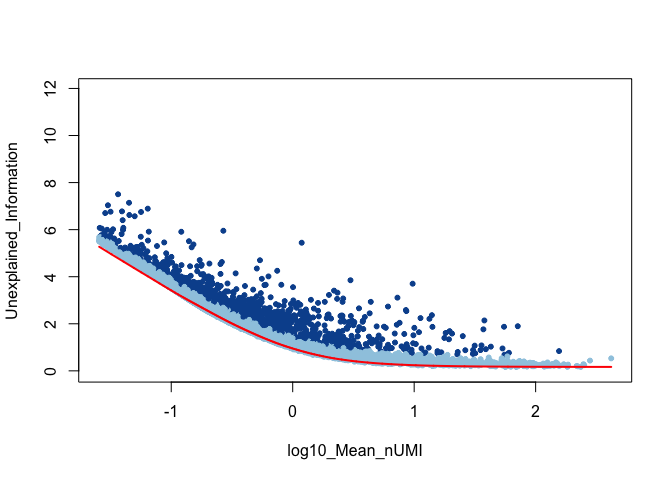
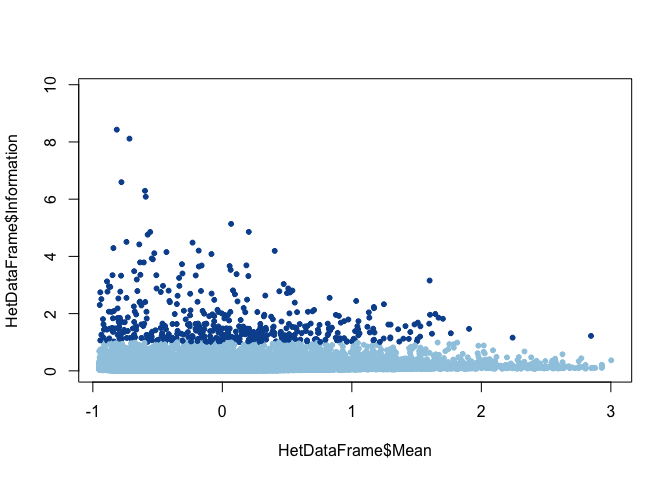
Update README

diff --git a/README.md b/README.md
@@ -15,6 +15,16 @@ explained by clustering. Based on the quantification of information in
 heterogeneity (infohet). Preprint -
 <https://www.biorxiv.org/content/10.1101/2020.10.01.322255v1>
 
+The package can be used for the calculation of several information
+theoretic quantities, most importantly:
+
+1.  Het - gene-wise measure of information obtained
+2.  Net Information - measure of the information explained by a given
+    clustering, penalised by the complexity of the clustering
+
+Het and net information can be used for feature selection and clustering
+evaluation, as presented below:
+
 ## Installation
 
 ``` r
@@ -28,7 +38,7 @@ We will use a dataset with a known cluster structure for this example.
 ScMixology (<https://github.com/LuyiTian/sc_mixology>) has several
 datasets that consist of mixtures of cancer cell lines, enabling the
 identity of each cell to be identified by genotyping. We will be using
-the mixture of five cell lines (sincell\_with\_class\_5cl.RDat).
+the mixture of three cell lines (sincell\_with\_class.RDat).
 
 Setup. Load in Data and filter low expressing genes (less than 100
 transcripts total).
@@ -36,18 +46,10 @@ transcripts total).
 ``` r
 library(infohet)
 library(RColorBrewer)
+library(Matrix)
 
-# CountsMatrix
-load("../Data/Tian2018/CountsMatrix")
-
-infoThreshold <- 0.5
-minTotal <- 100
-
-Total <- Matrix::rowSums(CountsMatrix)
-if(any(Total < minTotal)){
-   CountsMatrix <- CountsMatrix[-which(Total < minTotal),]
-   Total <- Total[-which(Total < minTotal)]
-}
+load("../Data/Tian2018/ThreeClasses/CountsMatrix")
+CountsMatrix <- CountsMatrix[rowSums(CountsMatrix) > 100,]
 ```
 
 ### Feature Selection
@@ -57,149 +59,90 @@ genes expression pattern. This is the number of bits required to encode
 the deviation of observed gene expression from homogeneity, i.e. equal
 gene expression in each cell.
 
-Some amount of information is expected from technical sources, so we
-simulate the effects of sparsity, cellular count depth variation and
-stochastic fluctuations.
-
-We then select those genes with at least some set amount (here 0.5 bits)
-more information than expected from technical effects. These are the
-highly informative genes.
+We then select highly informative genes by thresholding, choosing those
+genes with more than 1 bit of information.
 
 ``` r
-Het <- getHet(CountsMatrix)
+Information <- getHet(CountsMatrix)
 
-nullHet <- simulateHom(CountsMatrix)
-
-HighlyInformative <- Het > nullHet + infoThreshold
+HighlyInformative <- Information > 1
 
 N <- CountsMatrix@Dim[2]
-Mean_nUMI <- Total / N
+Mean <- log10(rowMeans(CountsMatrix))
 
-HetDataFrame <- data.frame(log10(Mean_nUMI), Het, nullHet)
-colnames(HetDataFrame) <- c("log10_Mean_nUMI", "Unexplained_Information", "Null_Model")
+HetDataFrame <- data.frame(Mean, Information)
 
 ColourSelected <- brewer.pal(9, "Blues")[8]
 ColourNotSelected <- brewer.pal(9, "Blues")[4]
-Order <- order(HetDataFrame$log10_Mean_nUMI)
 
-with(HetDataFrame, plot(log10_Mean_nUMI, 
-                        Unexplained_Information,
-                        col = ifelse(HighlyInformative, ColourSelected, ColourNotSelected),
-                        ylim = c(0, log2(N)),
-                        pch = 20)
-     )
-lines(HetDataFrame$log10_Mean_nUMI[Order], HetDataFrame$Null_Model[Order], col = "red", lwd = 2)
+plot(HetDataFrame$Mean, 
+     HetDataFrame$Information,
+     col = ifelse(HighlyInformative, ColourSelected, ColourNotSelected),
+     ylim = c(0, log2(N)),
+     pch = 20)
 ```
 
 <img src="man/figures/README-unnamed-chunk-3-1.png" width="100%" />
 
-### Cluster Quality Evaluation
+### Clustering Evaluation
 
 Information is additively decomposable based on a given clustering of
 cells into that information explained by the differential expression of
 a gene between clusters, and that which remains unexplained.
 
 Given the goal of clustering is to explain the heterogeneity in gene
-expression, and we can calculate the amount of information in
-heterogeneity that is explained by clustering, information is a natural
-measure for cluster evaluation.
+expression, information explained is a natural measure for cluster
+evaluation.
 
-Using the known ground truth cluster structure of the scMixology data,
-we can carry out a gene-wise assessment of the information that remains
-unexplained.
+Further, information is additive between independent sources. Taking
+each gene as independent, the total information explained by a given
+clustering can be found.
 
-More generally, if the ground truth clustering is not known, genes that
-retain a large amount of unexplained information are potentially
-interesting features for use in re/sub-clustering.
+Finally, note that information will never increase with increasing
+cluster number. We account for this increase by quantifying the amount
+of information required to encode a given cluster structure, \(H(S)\)
+and penalizing clusterings accordingly. We can therefore calcuate the
+net information explained by a given clustering.
 
-``` r
-# Identitiy
-load("../Data/Tian2018/Identity")
-
-Clustered_Unexplained_Information <- getHetMicro(CountsMatrix, Identity)
-HetDataFrame <- cbind(HetDataFrame, Clustered_Unexplained_Information)
-
-HighlyInformativeDecomp <- Clustered_Unexplained_Information > nullHet + infoThreshold
-
-with(HetDataFrame, plot(log10_Mean_nUMI, 
-                        Clustered_Unexplained_Information,
-                        col = ifelse(HighlyInformativeDecomp, ColourSelected, ColourNotSelected),
-                        ylim = c(0, log2(N)),
-                        pch = 20)
-     )
-lines(HetDataFrame$log10_Mean_nUMI[Order], HetDataFrame$Null_Model[Order], col = "red", lwd = 2)
-```
-
-<img src="man/figures/README-unnamed-chunk-4-1.png" width="100%" />
-
-Information is additive between independent sources. Taking each gene as
-independent, the total information left unexplained in the transcriptome
-can be found.
-
-Given the goal of clustering is to identify a set of homogenous
-subpopulations, i.e. cell types, the chosen clustering should minimise
-the total amount of information left unexplained.
-
-We can demonstrate the relationship between closeness to the ground
-truth (Rand Index) and information using K-means.
+Being a global measure of cluster quality, independent of cluster
+number, net information can serve as a powerful basis of hyperparameter
+selection. For instance, determining that there are three discrete
+cellular identities in the scMixology data set.
 
 ``` r
 library(Seurat)
-require(fossil)
+
+load("../Data/Tian2018/ThreeClasses/Identity")
 
 SeuObj <- Seurat::CreateSeuratObject(CountsMatrix)
 SeuObj <- Seurat::SCTransform(SeuObj)
 Data <- SeuObj@assays$SCT@scale.data
 
-Trials <- 1000
-
-RandInd <- vector("numeric", Trials)
-InformationUnexplained <- vector("numeric", Trials)
-
-for(i in 1:Trials){
-  KM <- kmeans(t(Data), 5)
-  RandInd[i] <- fossil::rand.index(KM$cluster, as.numeric(Identity))
-  
-  HetMicro <- getHetMicro(CountsMatrix, as.factor(KM$cluster))
-  InformationUnexplained[i] <- sum(HetMicro) 
-}
+SeuObj <- RunPCA(SeuObj, verbose = FALSE)
+SeuObj <- FindNeighbors(SeuObj, dims = 1:30, verbose = FALSE)
 ```
 
-<img src="man/figures/README-unnamed-chunk-7-1.png" width="100%" />
-
-Note that, all else being equal, information will never decrease with
-increasing cluster number. There is therefore a trade-off - the optimal
-clustering is that which leaves the least information unexplained in the
-fewest clusters. This can be assessed by an elbow analysis, shown below
-using the Seurat (v3) clustering pipeline.
-
 ``` r
-SeuObj <- RunPCA(SeuObj, verbose = FALSE)
-
-SeuObj <- FindNeighbors(SeuObj, dims = 1:30, verbose = FALSE)
+Resolutions <- c(seq(0.0001, 0.001, 0.0001), seq(0.002, 0.01, 0.001), seq(0.02, 0.2, 0.01), seq(0.3, 1, 0.1))
 
 NumClusters <- c()
-InformationUnexplained <- c()
-Resolutions <- c(seq(0.0001, 0.001, 0.0001), seq(0.002, 0.01, 0.001), seq(0.02, 0.2, 0.01), seq(0.3, 1, 0.1))
+NetInformation <- c()
 
 for(i in 1:length(Resolutions)){
   Idents(SeuObj) <- NA
+  
   SeuObj <- FindClusters(SeuObj, verbose = FALSE, resolution = Resolutions[i])
   
   Identity <- Idents(SeuObj)
   
-  HetMicro <- getHetMicro(CountsMatrix, Identity)
+  NetInformation[i] <- netInformation(CountsMatrix, Identity, Information)
   
   NumClusters[i] <- length(levels(Identity))
-  InformationUnexplained[i] <- sum(HetMicro) 
 }
 
-Elbow <- cbind(Resolutions, NumClusters, InformationUnexplained)
+Elbow <- cbind(Resolutions, NumClusters, NetInformation)
 ```
 
-Elbow Plot of total information explained by clustering against
-resolution hyperparameter and cluster number
+<img src="man/figures/README-unnamed-chunk-7-1.png" width="100%" />
 
-<img src="man/figures/README-unnamed-chunk-10-1.png" width="100%" />
-
-<img src="man/figures/README-unnamed-chunk-11-1.png" width="100%" />
+<img src="man/figures/README-unnamed-chunk-8-1.png" width="100%" />
